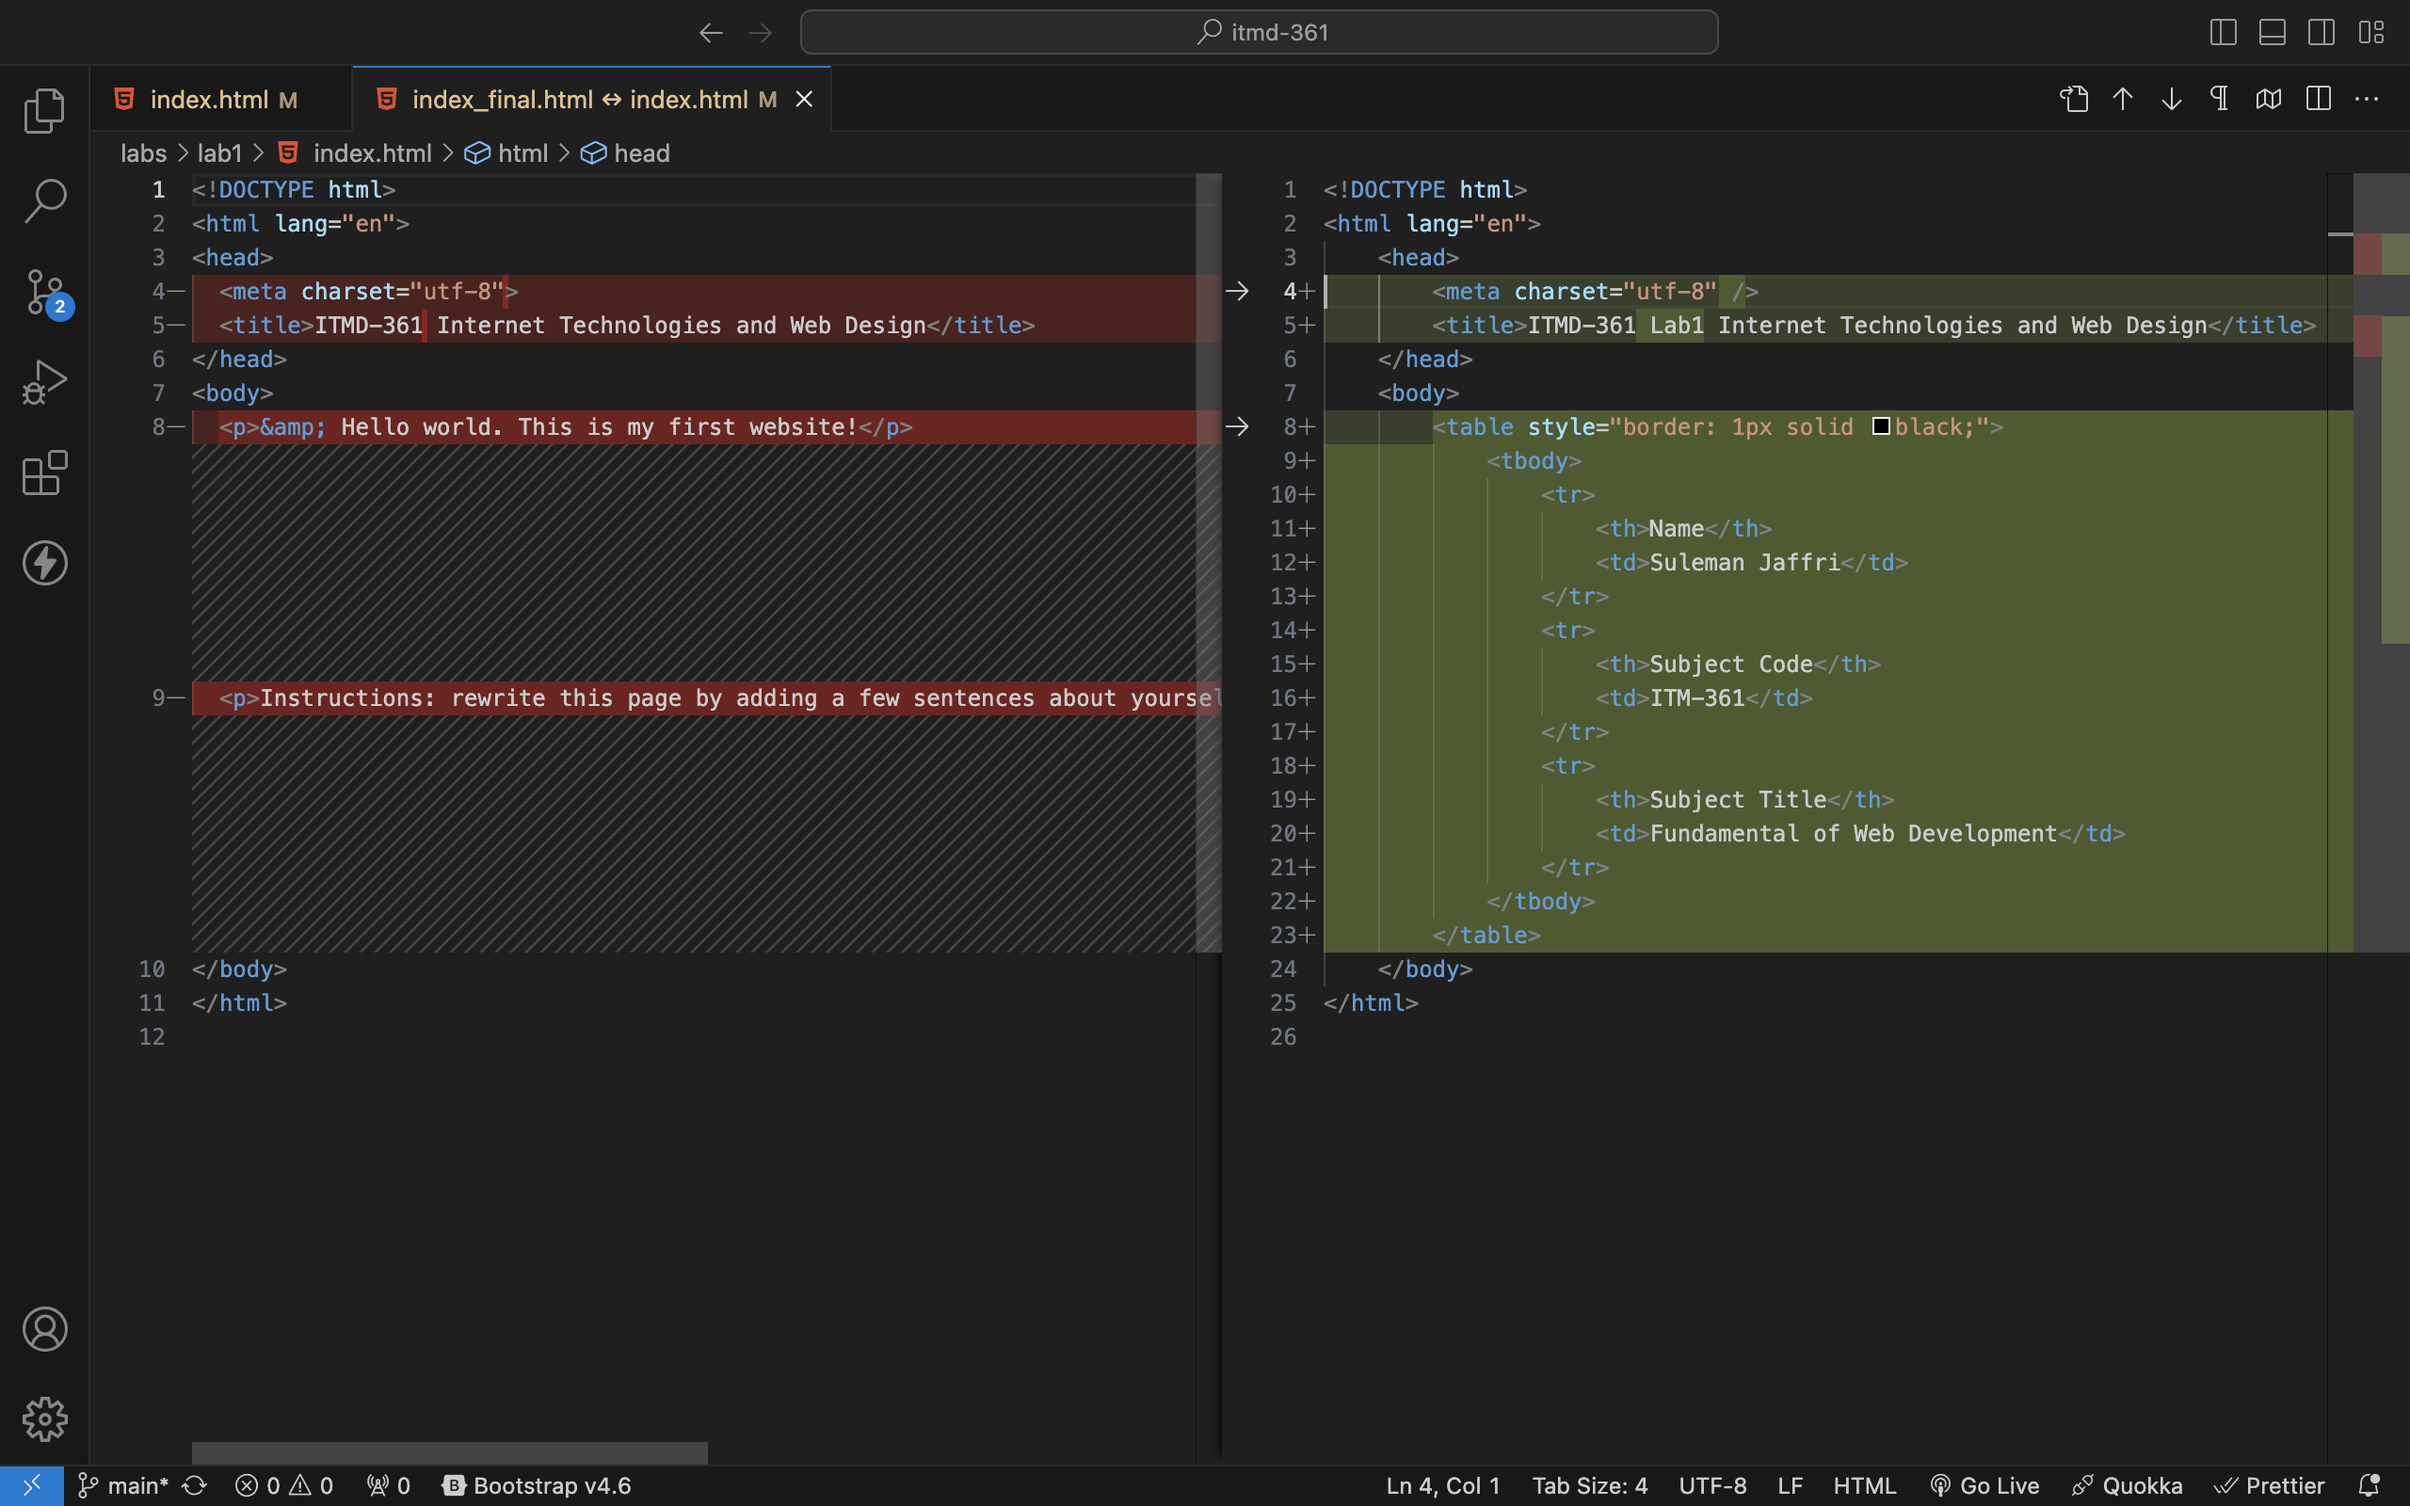
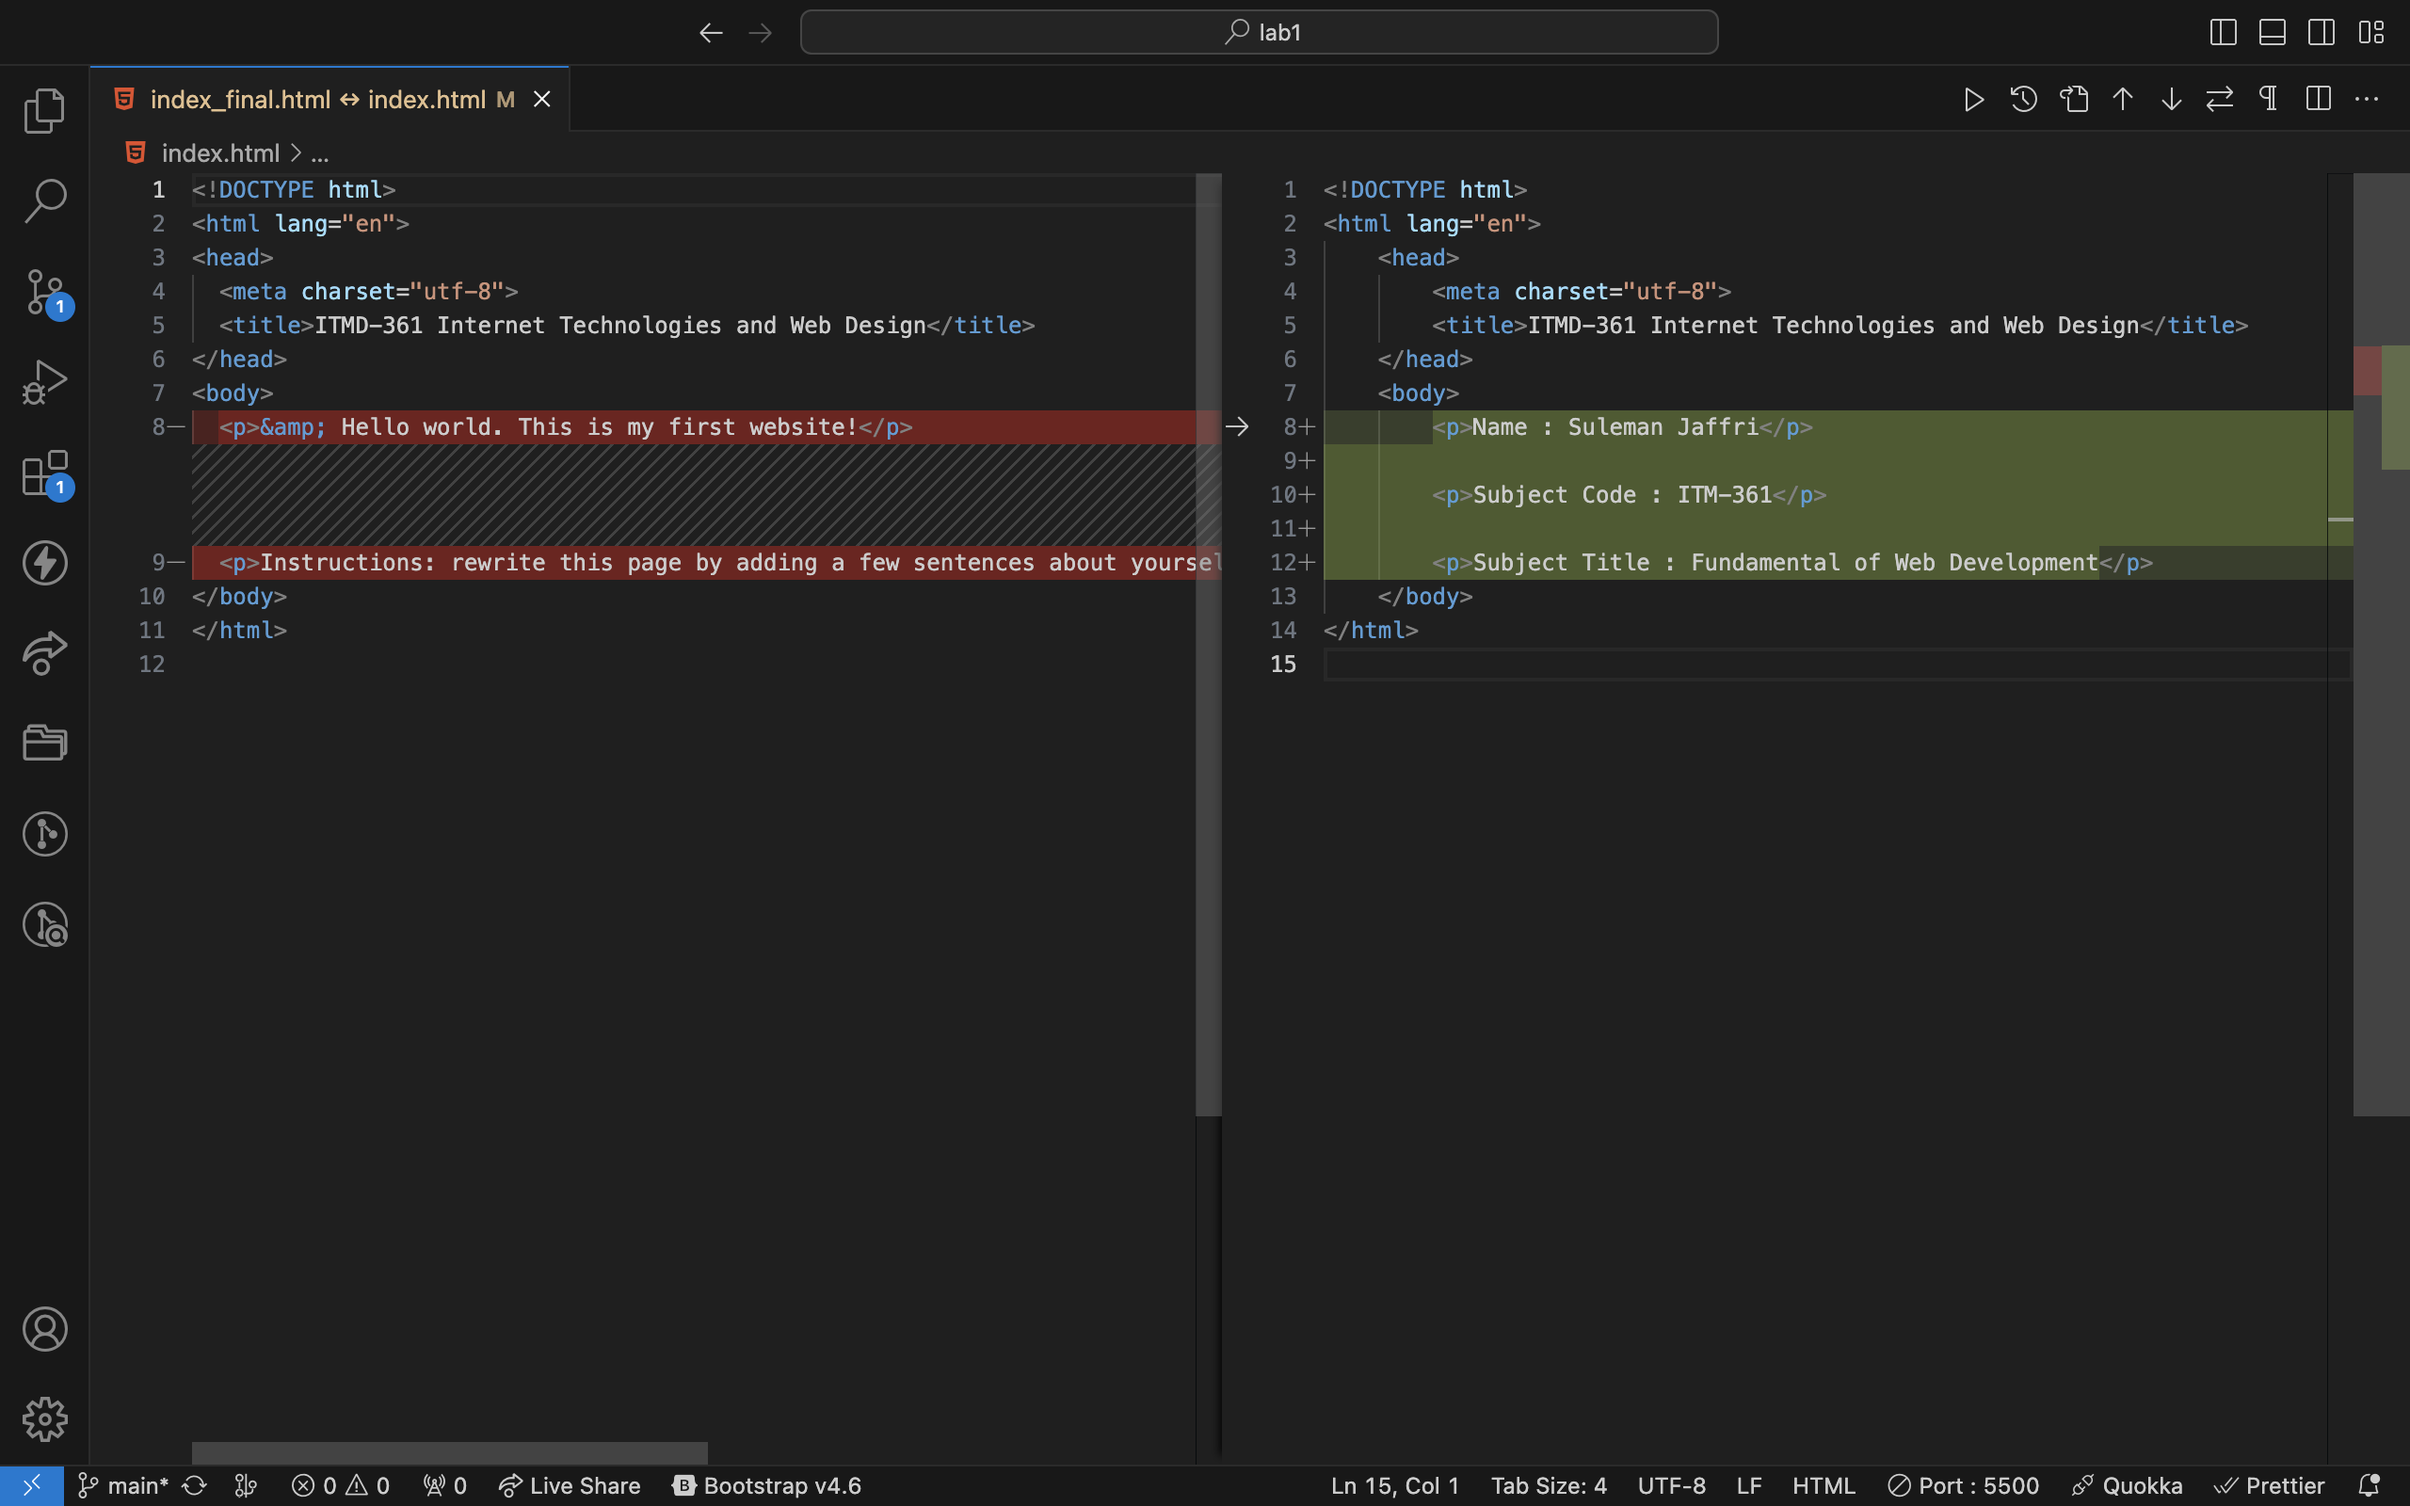
updated

diff --git a/index.html b/index.html
@@ -1,25 +1,14 @@
 <!DOCTYPE html>
 <html lang="en">
 	<head>
-		<meta charset="utf-8" >
-		<title>ITMD-361 Lab1 Internet Technologies and Web Design</title>
+		<meta charset="utf-8">
+		<title>ITMD-361 Internet Technologies and Web Design</title>
 	</head>
 	<body>
-		<table style="border: 1px solid black;">
-			<tbody>
-				<tr>
-					<th>Name</th>
-					<td>Suleman Jaffri</td>
-				</tr>
-				<tr>
-					<th>Subject Code</th>
-					<td>ITM-361</td>
-				</tr>
-				<tr>
-					<th>Subject Title</th>
-					<td>Fundamental of Web Development</td>
-				</tr>
-			</tbody>
-		</table>
+		<p>Name : Suleman Jaffri</p>
+
+		<p>Subject Code : ITM-361</p>
+
+		<p>Subject Title : Fundamental of Web Development</p>
 	</body>
 </html>
